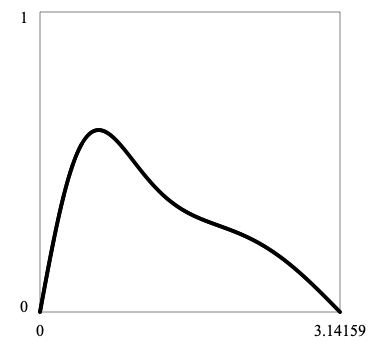
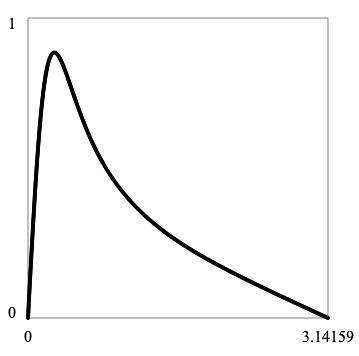
update

Changed region(s): [[0.0, 0.0293, 1.0, 0.9971], [0.1838, 0.2053, 0.2145, 0.2933]]

diff --git a/compton-scattering-4.html b/compton-scattering-4.html
@@ -10,9 +10,7 @@
 
 <table><tr><td>
 <textarea id="stdin" rows="24" cols="80" style="font-family:courier;font-size:12pt">
--- Draw angular distributions for Compton scattering
-
--- eigenmath.org/compton-scattering-4.txt
+-- Draw probability density for Compton scattering
 
 pi = float(pi) -- use numerical value of pi
 
@@ -22,13 +20,14 @@ omegap = m omega / (m + omega (1 - cos(theta)))
 
 M = omega/omegap + omegap/omega + cos(theta)^2 - 1
 
--- f is the probability density function for Compton scattering (unnormalized)
-
-f = (omegap/omega)^2 M sin(theta)
+f = (omegap/omega)^2 M sin(theta) -- unnormalized probability debsity
 
 -- I integrates f numerically from a to b
 
-I(a,b) = 1/100 (b - a) sum(k,1,100,eval(f,theta,a + (k - 0.5) (b - a) / 100))
+I(a,b) = do(
+  dtheta = (b - a) / 100,
+  sum(k,1,100,eval(f,theta,a + (k - 0.5) dtheta)) dtheta
+)
 
 xrange = (0,pi)
 yrange = (0,1)
@@ -51,10 +50,9 @@ omega = 5.0
 C = I(0,pi)
 draw(f/C,theta)
 
-"Scattering angle probability distribution 0.511 MeV"
+"Scattering angle probability distribution 5 MeV"
 
-omega = m
-
+omega = 5.0
 N = 4 -- number of bins
 P = zero(N)
 

diff --git a/annihilation-3.html b/annihilation-3.html
@@ -47,16 +47,16 @@ y = y "nanobarn"
 y
 
 alpha = 0.0072973525693
-hbar = 6.582119569 10^(-25) GeV second
-c = 299792458 meter / second
-E = 7.0 GeV
+hbar = 6.582119569 10^(-25) "GeV" "second"
+c = 299792458 "meter" / "second"
+E = 7.0 "GeV"
 s = 4 E^2
 yhat = zero(N)
 
 for(k,1,N,
   t = -2 E^2 (1 - x[k]),
   u = -2 E^2 (1 + x[k]),
-  yhat[k] = 1/2 alpha^2 / s (u/t + t/u) (hbar c)^2 10^37 "nanobarn" / meter^2
+  yhat[k] = 1/2 alpha^2 / s (u/t + t/u) (hbar c)^2 10^37 "nanobarn" / "meter"^2
 )
 
 "Predicted cross section"

diff --git a/index.html b/index.html
@@ -64,7 +64,7 @@ Documentation
 <br>
 &#9657;<a href="compton-scattering-3.html">Verify lab frame formulas</a>
 <br>
-&#9657;<a href="compton-scattering-4.html">Draw angular distributions</a>
+&#9657;<a href="compton-scattering-4.html">Draw probability density</a>
 <br>
 &#9657;<a href="compton-scattering-5.html">Compton scattering data from CERN LEP</a>
 &nbsp;

diff --git a/compton-scattering.tex b/compton-scattering.tex
@@ -473,24 +473,24 @@ f(\theta)=\frac{dF(\theta)}{d\theta}=C^{-1}\frac{dI(\theta)}{d\theta}
 
 \noindent
 Run ``compton-scattering-4.txt'' to plot $f(\theta)$.
-(The following plot is for $\omega=m$)
+(The following plot is for $\omega=5\,\text{MeV}$)
 
 \begin{center}
 \includegraphics[scale=0.5]{compton-scattering.png}
 \end{center}
 
 \noindent
-The following table shows the angular distribution for $\omega=m$ and four bins.
+The following table shows the angular distribution for $\omega=5\,\text{MeV}$ and four bins.
 
 \begin{center}
 \begin{tabular}{|c|c|c|}
 \hline
 $\theta_1$ & $\theta_2$ & $P(\theta_1\le\theta\le\theta_2)$\\
 \hline
-$0^\circ$ & $45^\circ$ & 0.35 \\
-$45^\circ$ & $90^\circ$ & 0.34 \\
-$90^\circ$ & $135^\circ$ & 0.22 \\
-$135^\circ$ & $180^\circ$ & 0.09 \\
+$0^\circ$ & $45^\circ$ & 0.52 \\
+$45^\circ$ & $90^\circ$ & 0.29 \\
+$90^\circ$ & $135^\circ$ & 0.14 \\
+$135^\circ$ & $180^\circ$ & 0.05 \\
 \hline
 \end{tabular}
 \end{center}
